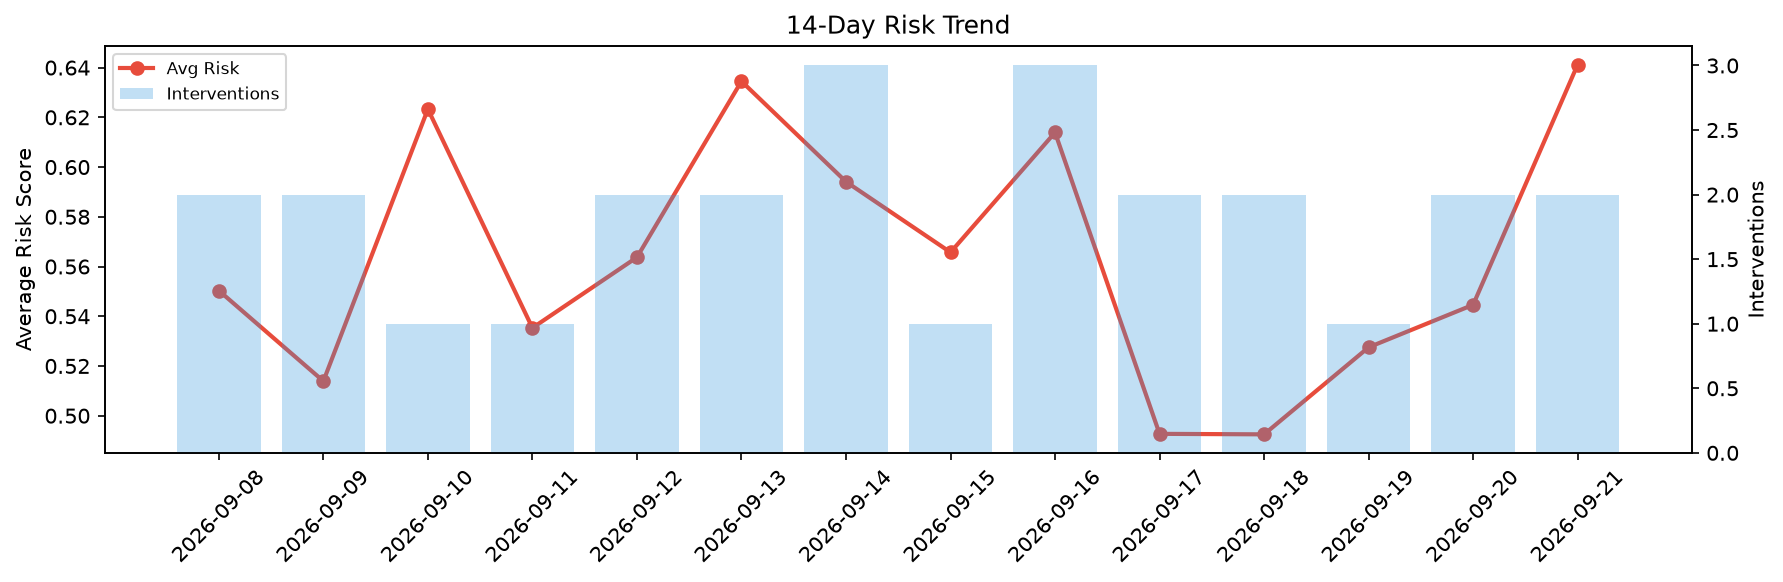
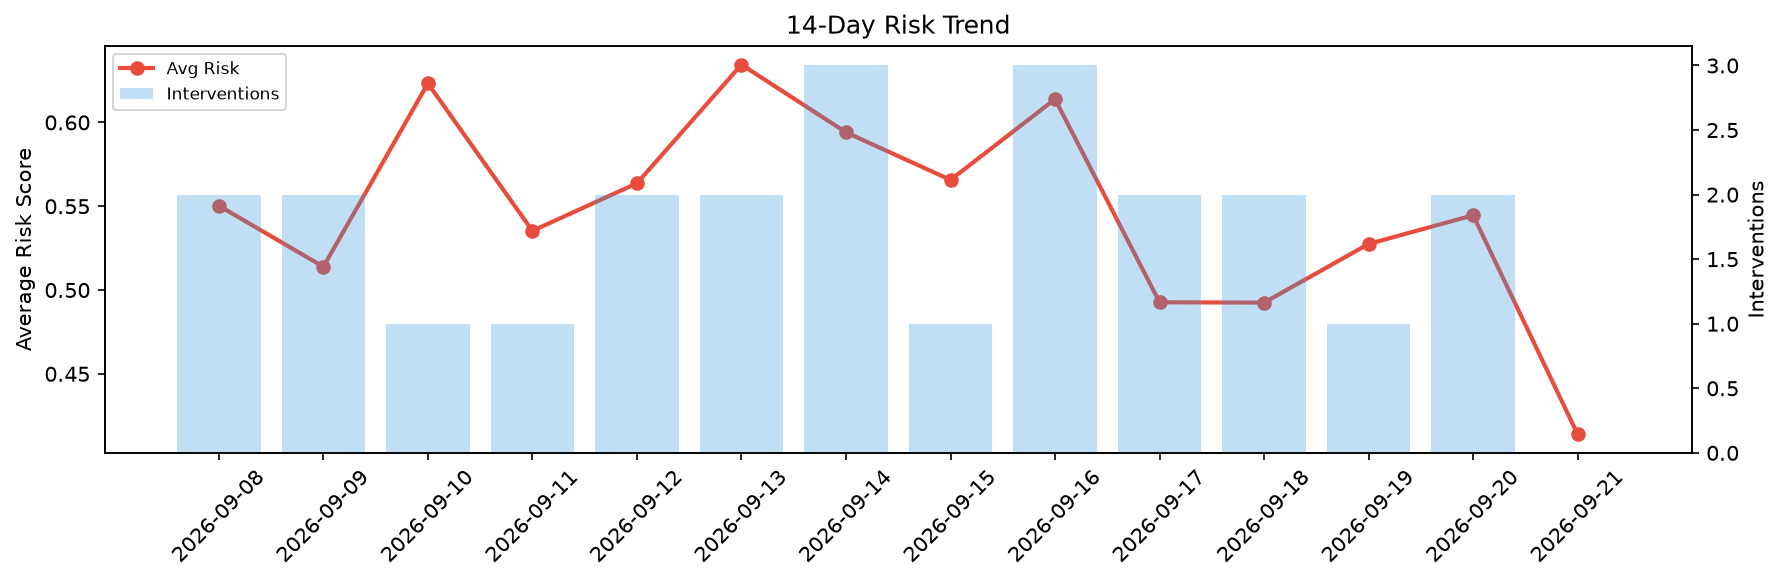
agent-improvement: daily cycle 2026-09-21T19:28

diff --git a/logs/2026-09-21.md b/logs/2026-09-21.md
@@ -1,6 +1,6 @@
 # Agent Improvement Report — 2026-09-21
 
-**Cycle ID:** `58aa2cec` | **Avg Risk:** 0.6412 | **Interventions:** 2/4
+**Cycle ID:** `1fded083` | **Avg Risk:** 0.4139 | **Interventions:** 0/4
 
 ![Dashboard](2026-09-21_dashboard.png)
 
@@ -10,18 +10,18 @@
 
 | Domain | Risk Score | Decision | Alerts |
 |--------|-----------|----------|--------|
-| code_review | 0.8011 | intervene | duplication, coverage |
-| incident_response | 0.9359 | intervene | severity, blast_radius, mttr |
-| data_pipeline | 0.4341 | monitor | none |
-| deployment | 0.3936 | monitor | canary_error |
+| code_review | 0.4276 | monitor | none |
+| incident_response | 0.3706 | monitor | none |
+| data_pipeline | 0.4448 | monitor | none |
+| deployment | 0.4127 | monitor | canary_error |
 
 ## Delta vs Yesterday
 
 | Domain | Today | Yesterday | Change |
 |--------|-------|-----------|--------|
-| code_review | 0.8011 | 0.6838 | 📈 17.2% |
-| incident_response | 0.9359 | 0.2985 | 📈 213.5% |
-| data_pipeline | 0.4341 | 0.5541 | 📉 -21.7% |
-| deployment | 0.3936 | 0.642 | 📉 -38.7% |
+| code_review | 0.4276 | 0.6838 | 📉 -37.5% |
+| incident_response | 0.3706 | 0.2985 | 📈 24.2% |
+| data_pipeline | 0.4448 | 0.5541 | 📉 -19.7% |
+| deployment | 0.4127 | 0.642 | 📉 -35.7% |
 
 **Refinement:** `{'adjustment': 'maintain', 'trend': 'improving', 'window': 4}`
